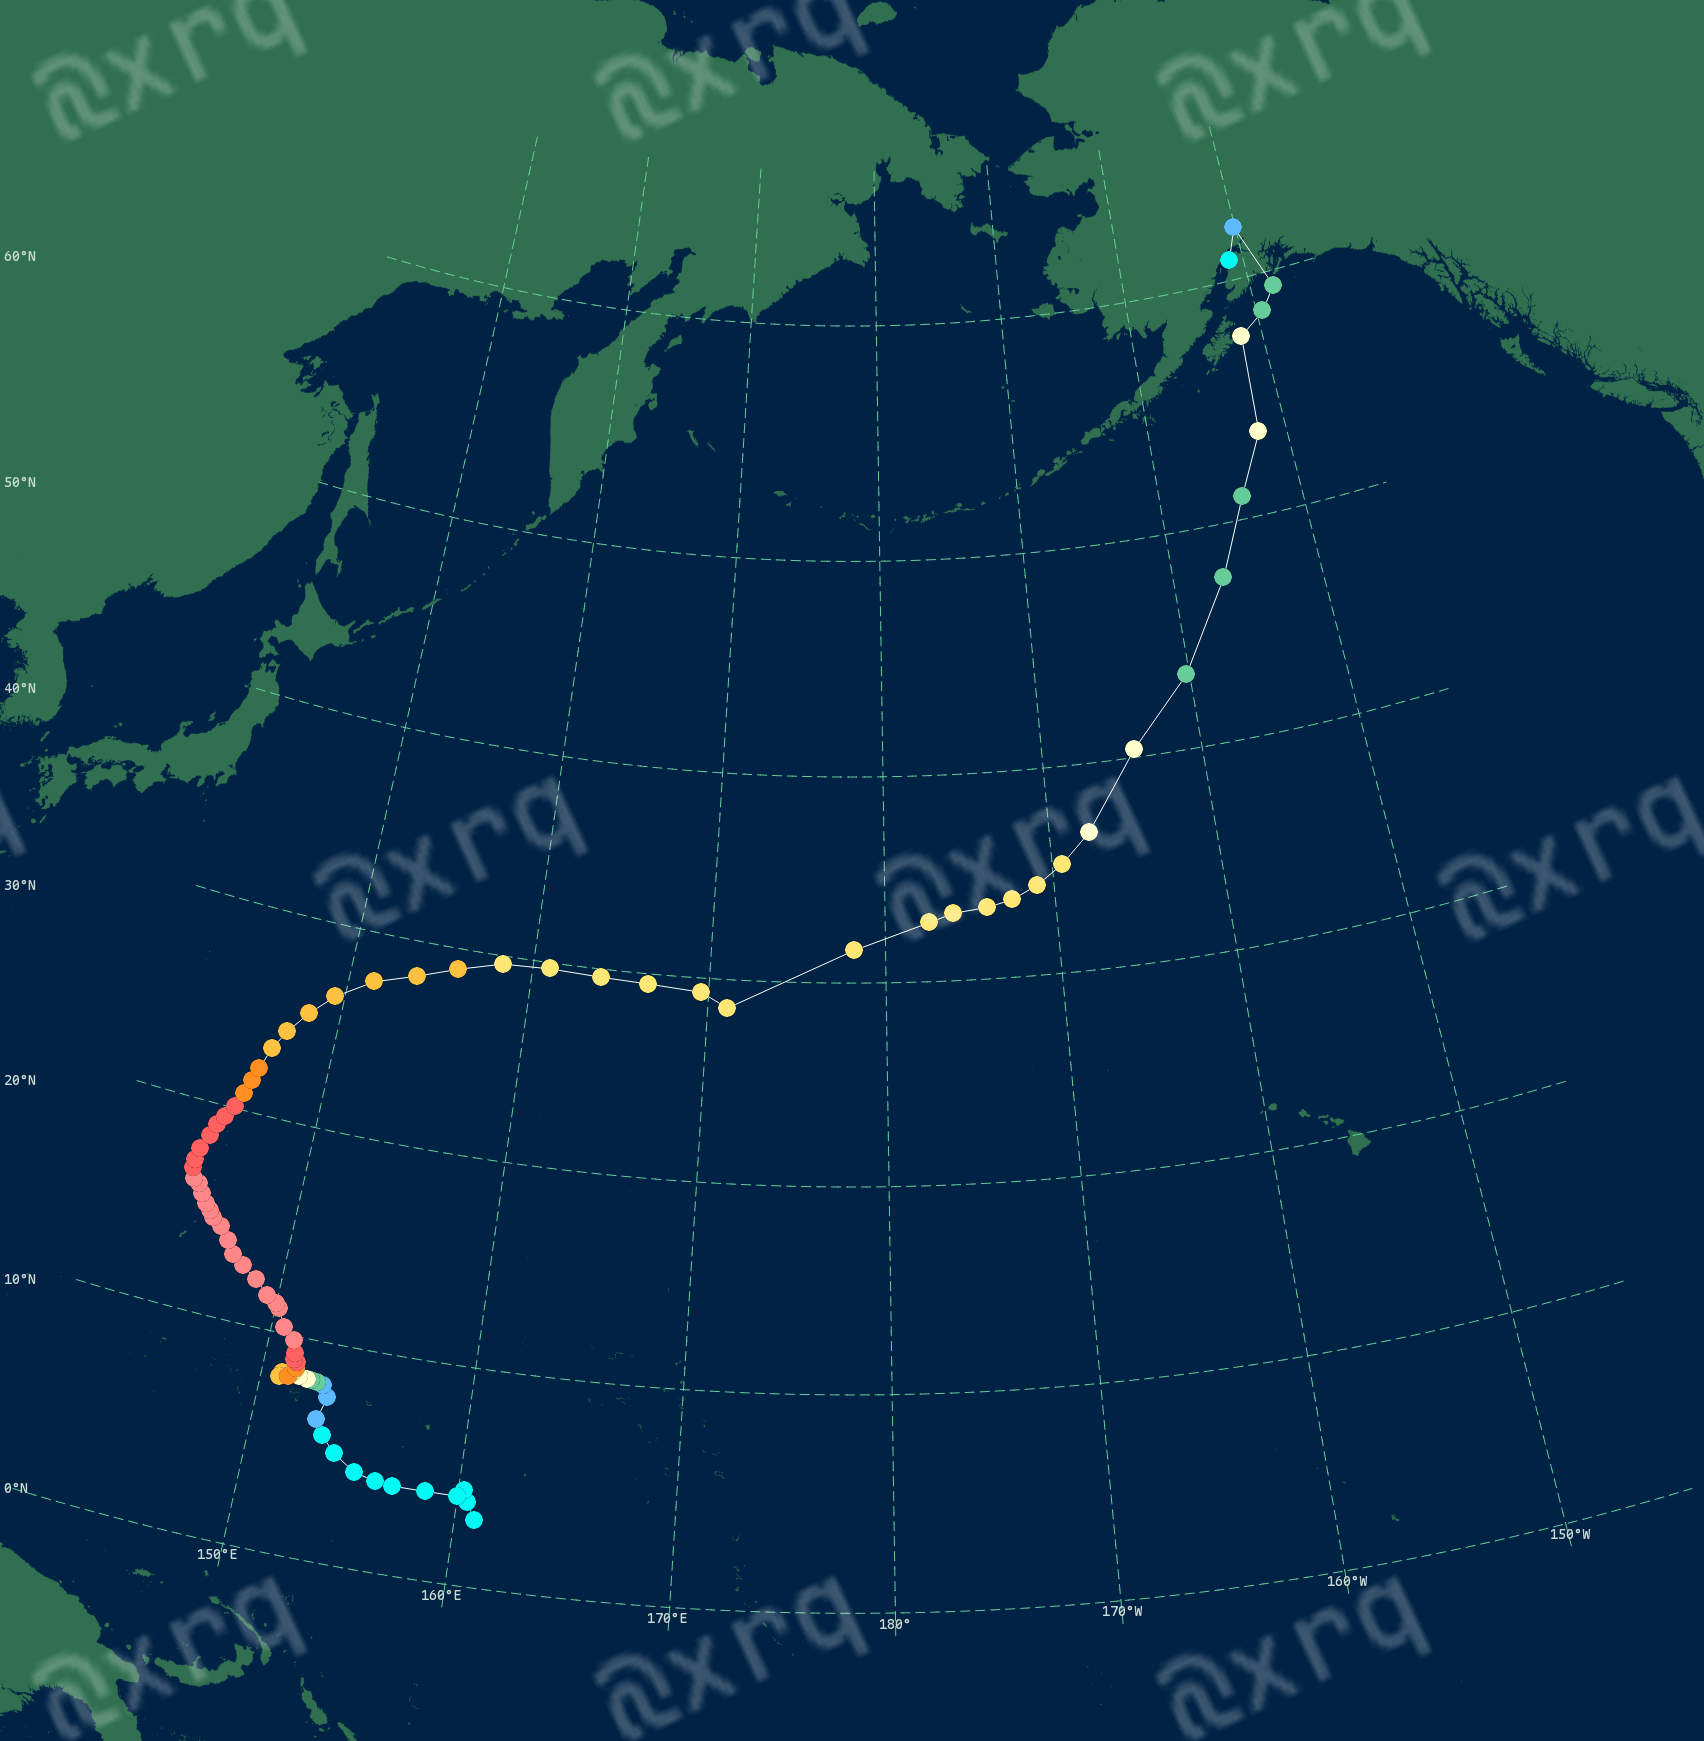
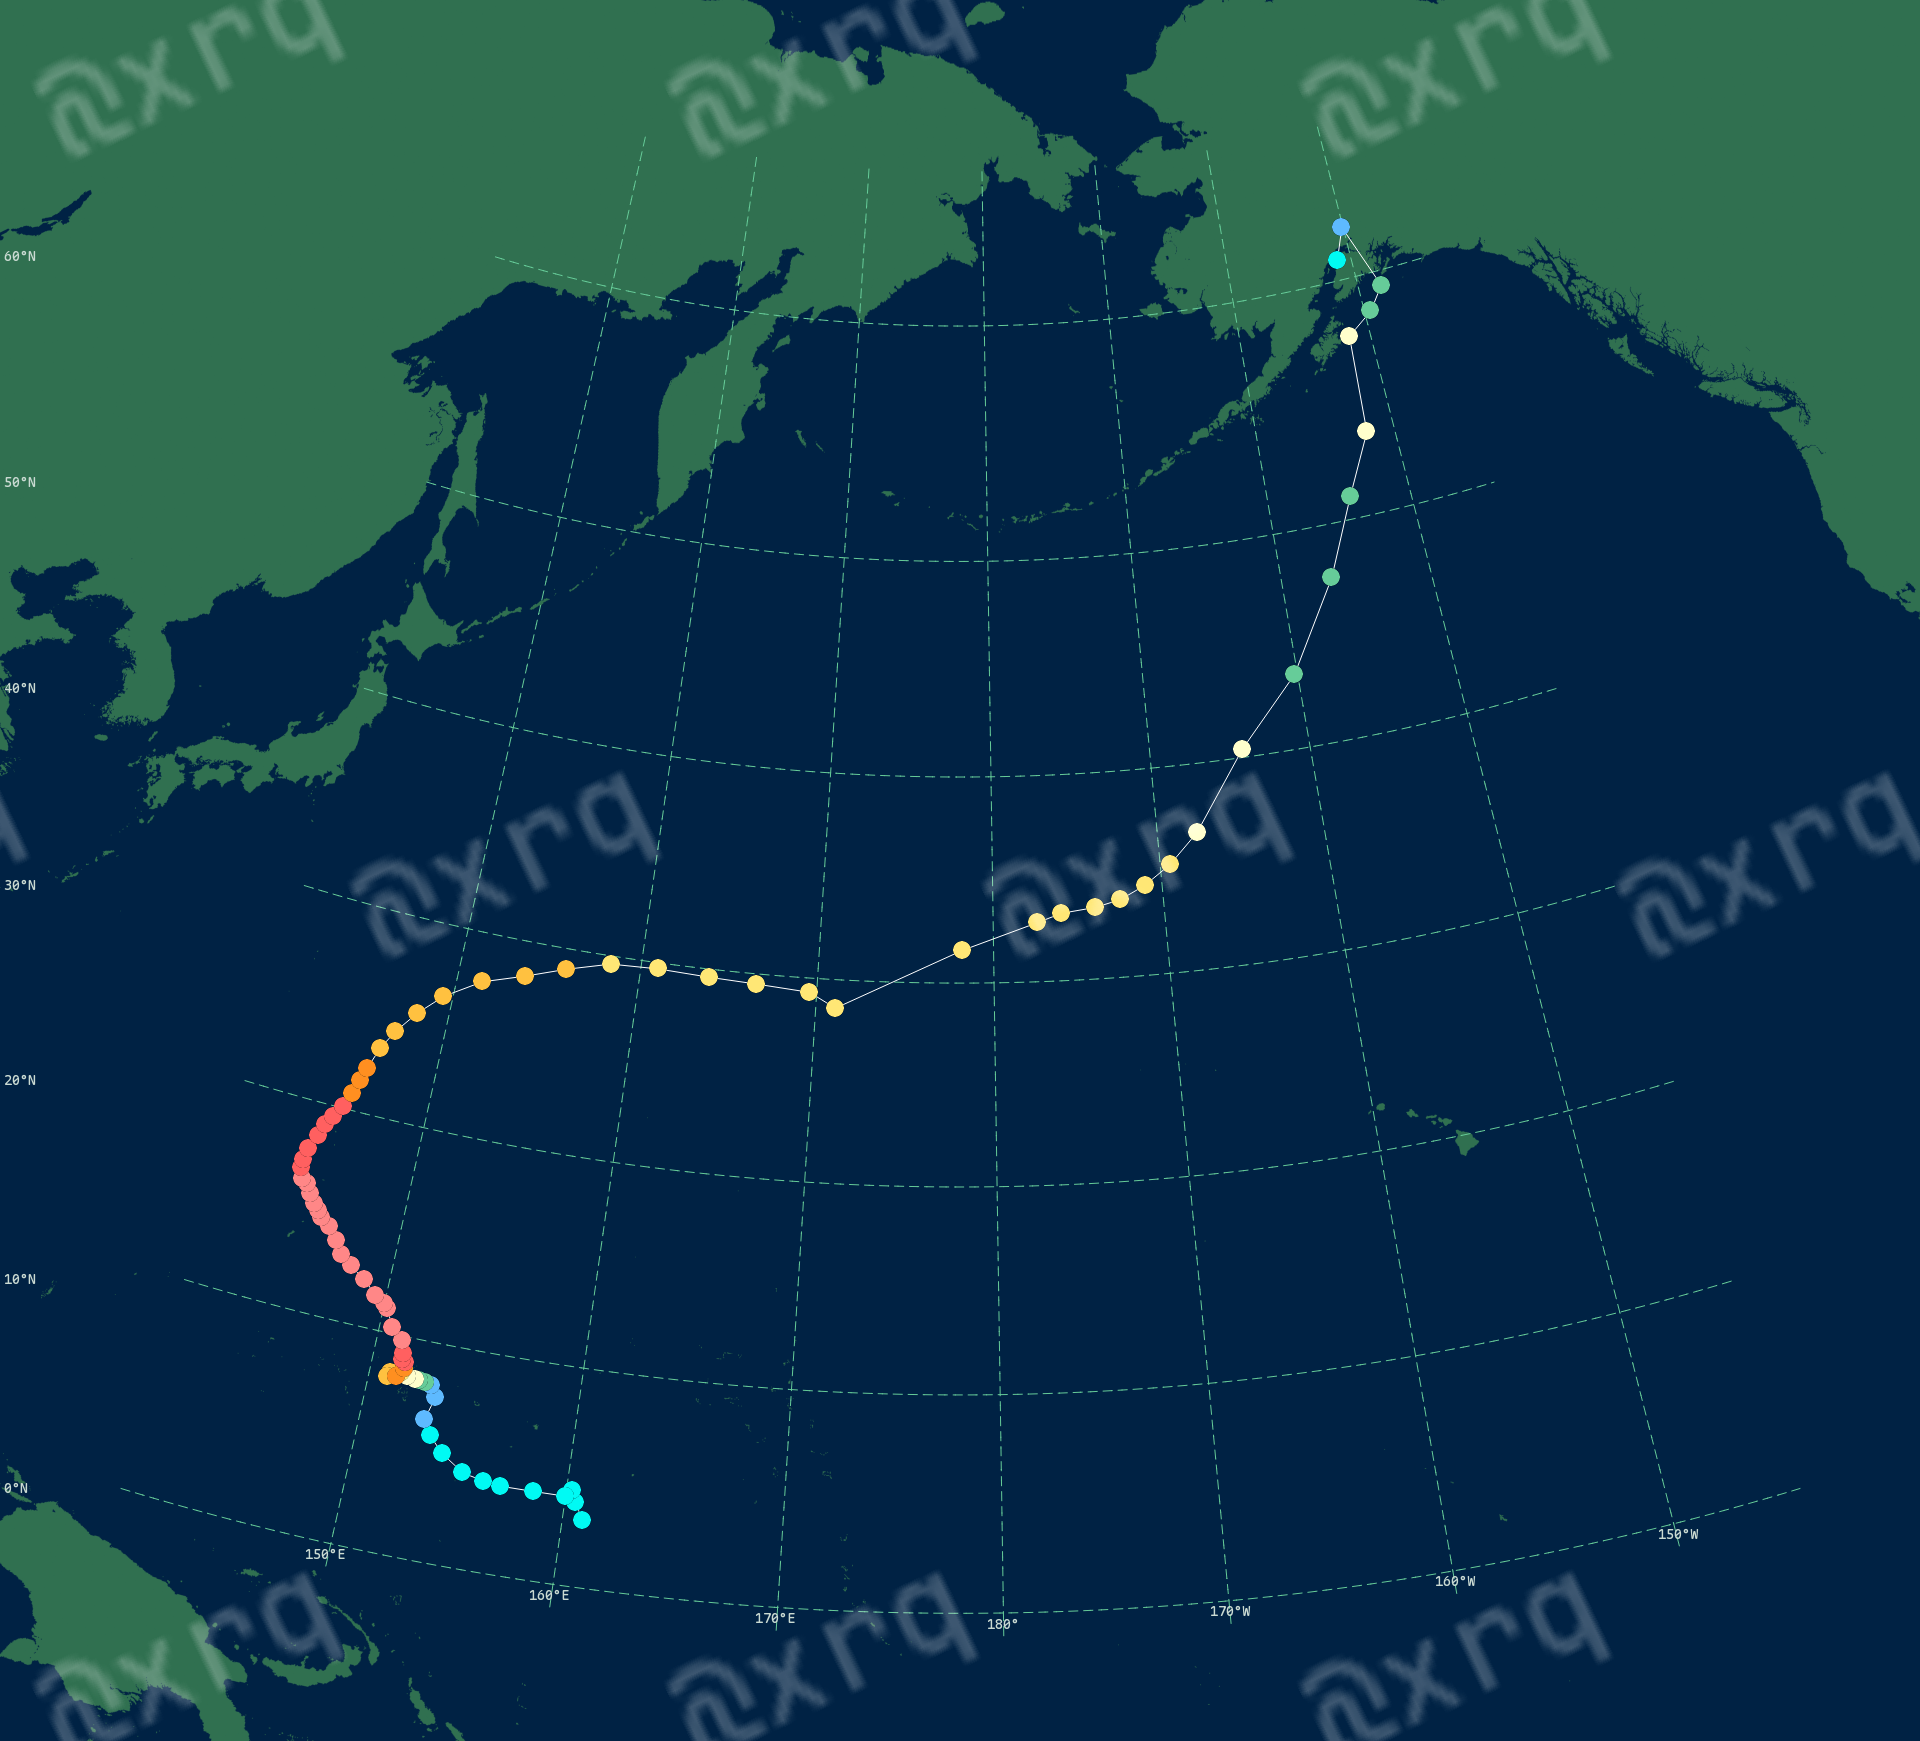
QQ 样式加画布下限(照 Typhoon4 的 Width/Height)
问题: QQ 渲染器的画布下限只有 320x240, 小台风会渲成缩略图 ——
实测 Awo 320x259 / Hinano 639x548 / Blossom 711x356 / Mitchell 727x556。

Ty4 的做法(规格书 §2.2, 语言包键 57-60 原文确证 "最小宽度"/"最小高度"):
    W_out = max(Width,  track_w + 2*WidthSpace)
    H_out = max(Height, track_h + 2*HeightSpace)
当前 Settings.ini: Width=1920 Height=1080 WidthSpace=360 HeightSpace=270
关键: Ty4 的 px/° **恒定**(30), 所以画布变大是"看到更多地图", 不是"把轨迹放大"。

改法(app/paint_render_qq.py):
- 新增 min_w/min_h (默认 1920x1080 = Settings.ini 的 Width/Height),
  以及 max_w/max_h 内存护栏与 px_per_deg
- 尺寸照 Ty4 公式: W = min(max_w, max(min_w, 内容 + 2*许空))
- 命中下限时**保持内容比例不变、只把内容居中**(ctx 的 ox/oy 各加半个尺寸差)
  ⇒ 等价于往四周多露地图, 与 Ty4 的恒定 px/° 同效

验证(6 个台风, app 真实数据):
  Sinlaku 1704x1741 -> 1920x1741 | Mekkhala 1351x1034 -> 1920x1080
  Hinano   639x548  -> 1920x1080 | Awo      320x259  -> 1920x1080
  Blossom  711x356  -> 1920x1080 | Mitchell 727x556  -> 1920x1080
对比图: output/exploration/render_demo_qq.png
回归: test_paint + test_render_geom = 31 passed

diff --git a/app/paint_render_qq.py b/app/paint_render_qq.py
@@ -288,6 +288,21 @@ class QQTrackRenderer:
         self.watermark = bool(o.get("watermark", True))
         self.margin_w = float(o.get("margin_w", 0.0))
         self.margin_h = float(o.get("margin_h", 0.0))
+        # ── 画布下限：照 Typhoon4 的 Width / Height ─────────────────────────
+        # Ty4 的公式(规格书 §2.2, 语言包键 57-60 原文确证 "最小宽度"/"最小高度"):
+        #     W = max(Width,  track_w + 2*WidthSpace)
+        #     H = max(Height, track_h + 2*HeightSpace)
+        # 默认取 Settings.ini 的 Width=1920 / Height=1080。
+        # 原先这里下限只有 320x240 ⇒ 小台风会渲出 320x259 这种"缩略图"。
+        # ⚠ 关键差别: Ty4 的 px/° **恒定**, 所以画布变大是"**看到更多地图**",
+        #   不是"把轨迹放大"。本渲染器照此办理(见 render 里"同一比例重新居中")。
+        self.min_w = int(o.get("min_w", 1920))
+        self.min_h = int(o.get("min_h", 1080))
+        #: 内存护栏(我们加的, Ty4 没有): 超大包围盒不无限涨
+        self.max_w = int(o.get("max_w", 4096))
+        self.max_h = int(o.get("max_h", 3072))
+        #: 内容 px/°(Ty4 是 30; 本样式按基准图观感取 ~22.6)
+        self.px_per_deg = float(o.get("px_per_deg", 22.6))
         self.aa = bool(o.get("aa", True))
         self.marker_r = float(o.get("marker_r", 9.0))
         self.line_w = int(o.get("line_w", 1))
@@ -399,14 +414,20 @@ class QQTrackRenderer:
         pad_deg = 4.0
         bounds = (lo0 - pad_deg, lo1 + pad_deg, max(-80.0, la0 - pad_deg),
                   min(84.0, la1 + pad_deg))
-        # 画布尺寸：按基准图的长宽比与像素密度(~23 px/度)自动
+        # 画布尺寸：照 Ty4 的 `W = max(最小宽度, 内容 + 2*留空)`
         if self.output_size:
             W, H = int(self.output_size[0]), int(self.output_size[1])
         else:
             dlon = max(1e-6, bounds[1] - bounds[0])
             dlat = max(1e-6, bounds[3] - bounds[2])
-            W = int(max(320, min(2400, dlon * 22.6 + 2 * self.margin_w)))
-            H = int(max(240, min(1800, dlat * 22.6 * 1.15 + 2 * self.margin_h)))
+            #: 内容尺寸(未设下限)
+            _wc = dlon * self.px_per_deg + 2 * self.margin_w
+            _hc = dlat * self.px_per_deg * 1.15 + 2 * self.margin_h
+            Wc = int(min(self.max_w, max(160, _wc)))
+            Hc = int(min(self.max_h, max(120, _hc)))
+            #: 套下限(照 Ty4 的 Width/Height)。取整到 2 的倍数无害, 便于等比缩放。
+            W = int(min(self.max_w, max(self.min_w, Wc)))
+            H = int(min(self.max_h, max(self.min_h, Hc)))
         if self.ctx_override:
             ctx = dict(self.ctx_override)
             # 显式 ctx 可能只给了投影参数(如 PP.CONIC_REFERENCE) ⇒ 补齐渲染需要的字段
@@ -414,6 +435,15 @@ class QQTrackRenderer:
             ctx.setdefault('size', (W, H))
             ctx.setdefault('bounds', bounds)
             W, H = int(ctx['size'][0]), int(ctx['size'][1])
+        elif not self.output_size and (W, H) != (Wc, Hc):
+            # 命中下限 ⇒ **保持内容比例不变, 只把内容居中到更大的画布**
+            # (= 往四周多露地图, 而不是把轨迹放大; 这正是 Ty4 px/° 恒定的效果)
+            # 做法: 先用内容尺寸装箱拿到 ctx, 再把偏移各加半个尺寸差。
+            ctx = PP.make_ctx(self.projection, bounds, (Wc, Hc), pad=6.0)
+            ctx = dict(ctx)
+            ctx['size'] = (W, H)
+            ctx['ox'] = float(ctx.get('ox', 0.0)) + (W - Wc) / 2.0
+            ctx['oy'] = float(ctx.get('oy', 0.0)) + (H - Hc) / 2.0
         else:
             ctx = PP.make_ctx(self.projection, bounds, (W, H), pad=6.0)
         self._ctx = ctx
